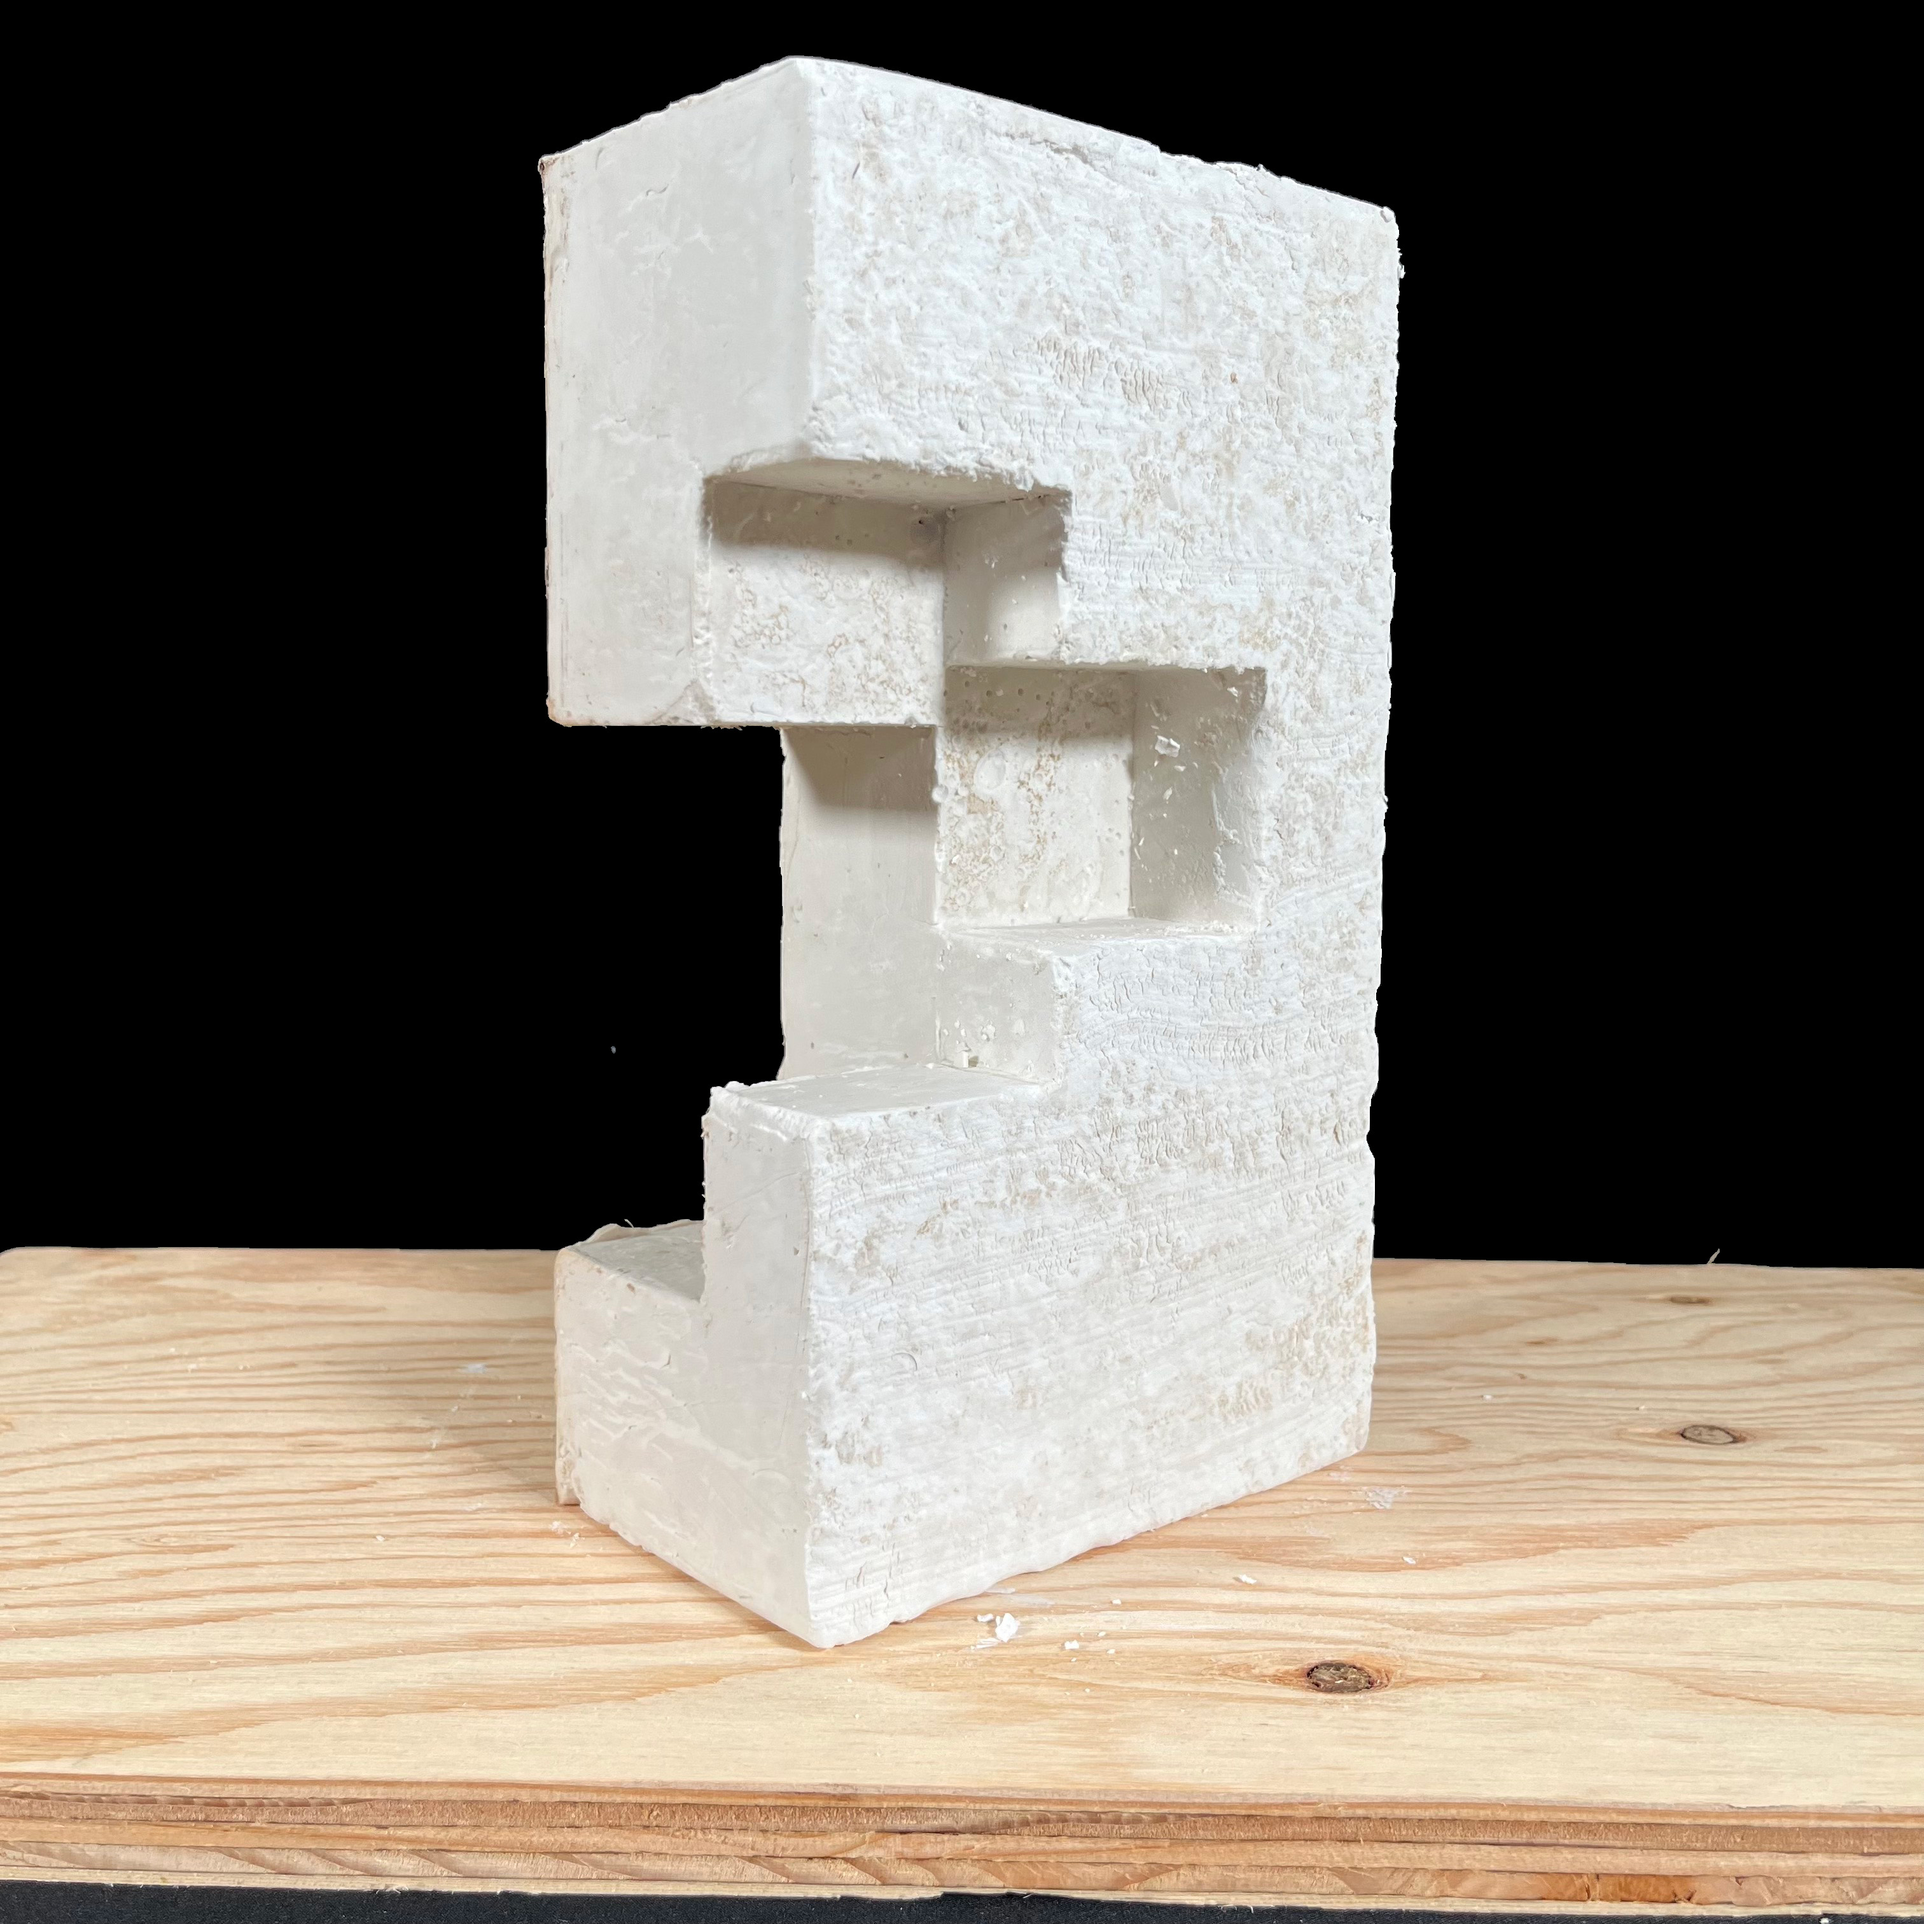
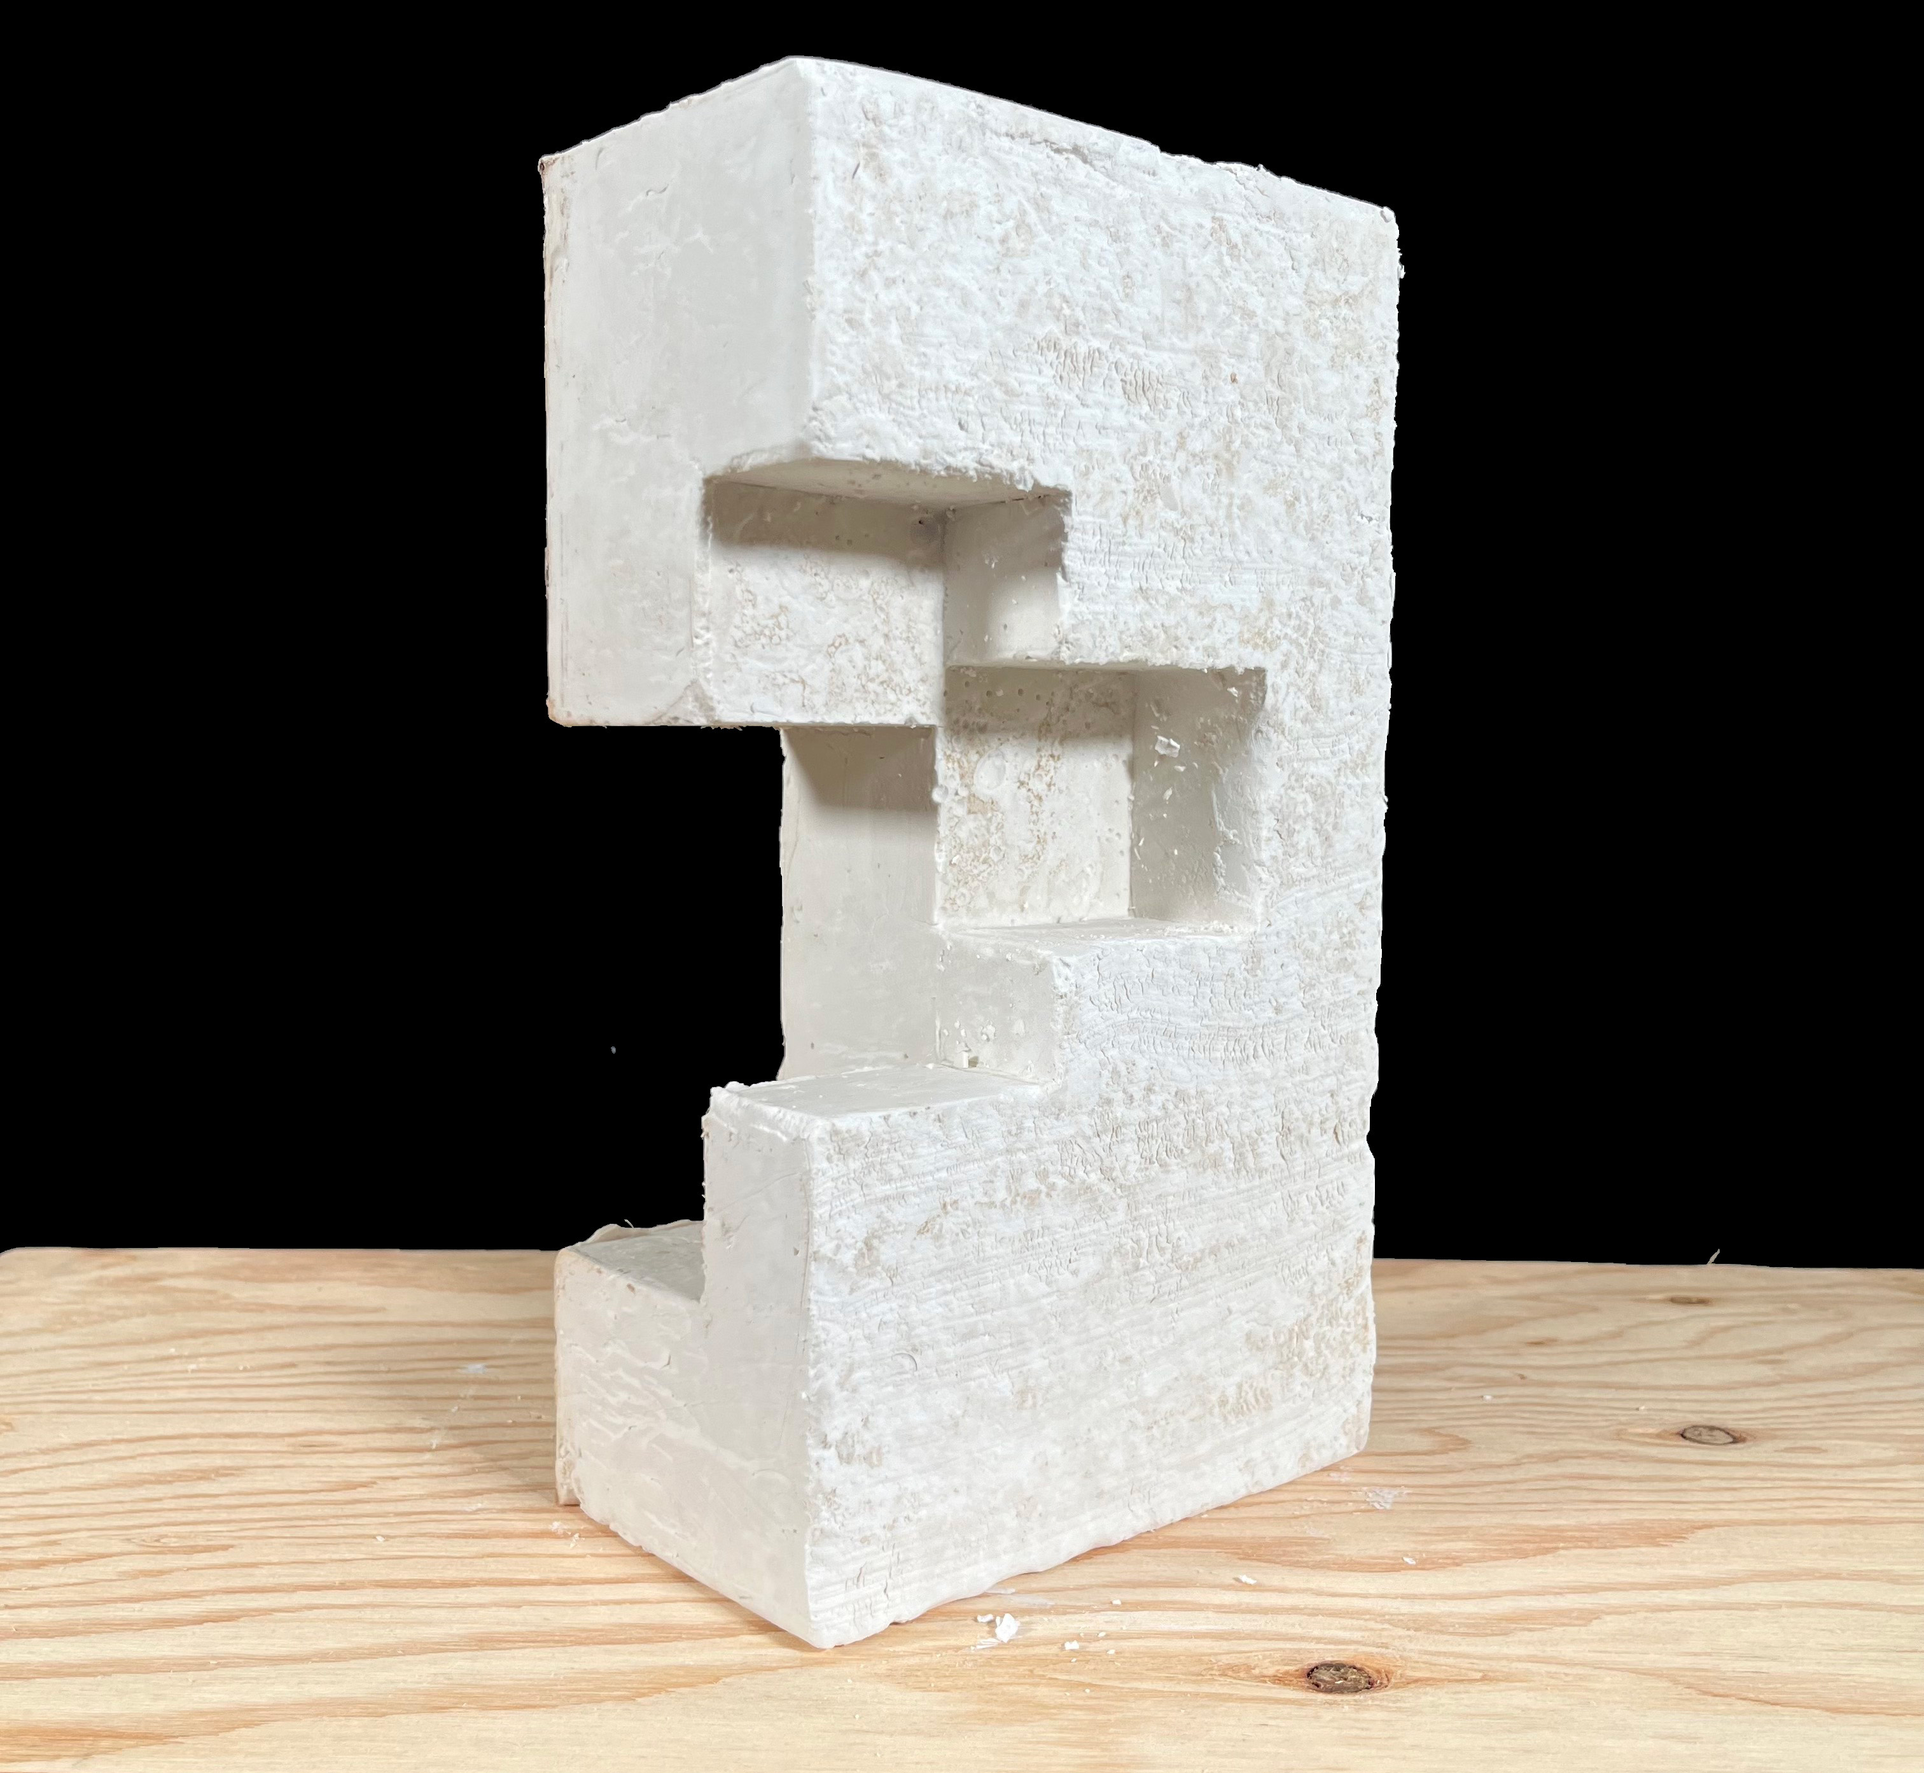
Minor Changes

Changed region(s): [[0.0, 0.0312, 1.0, 1.0], [0.2798, 0.0625, 0.3419, 0.1561], [0.4352, 0.7495, 0.4663, 0.7807]]

diff --git a/iap.html b/iap.html
@@ -234,9 +234,9 @@
 
 
             <!--Project Image 2-->
-            <a href="images/IAP/IAP-3.jpg" data-lightbox="IAP">
+            <a href="images/IAP/IAP-4.jpg" data-lightbox="IAP">
                 <div class="projectimgwrap">
-                    <img src="images/IAP/IAP-3.jpg" alt="">
+                    <img src="images/IAP/IAP-4.JPG" alt="">
                 </div>
             </a>
             <!--Image Title-->
@@ -251,9 +251,9 @@
               
             <!--Project Image 3-->
             <div class="large_spacer"></div>
-            <a href="images/IAP/IAP-4.jpg" data-lightbox="IAP">
+            <a href="images/IAP/IAP-3.jpg" data-lightbox="IAP">
                 <div class="projectimgwrap">
-                    <img src="images/IAP/IAP-4.jpg" alt="">
+                    <img src="images/IAP/IAP-3.jpg" alt="">
                 </div>
             </a>
             <!--Image Title-->
